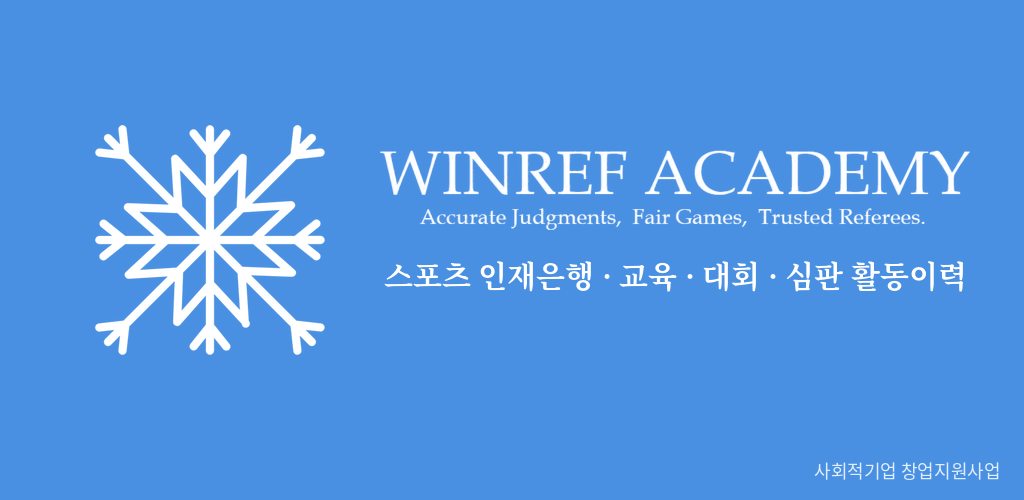
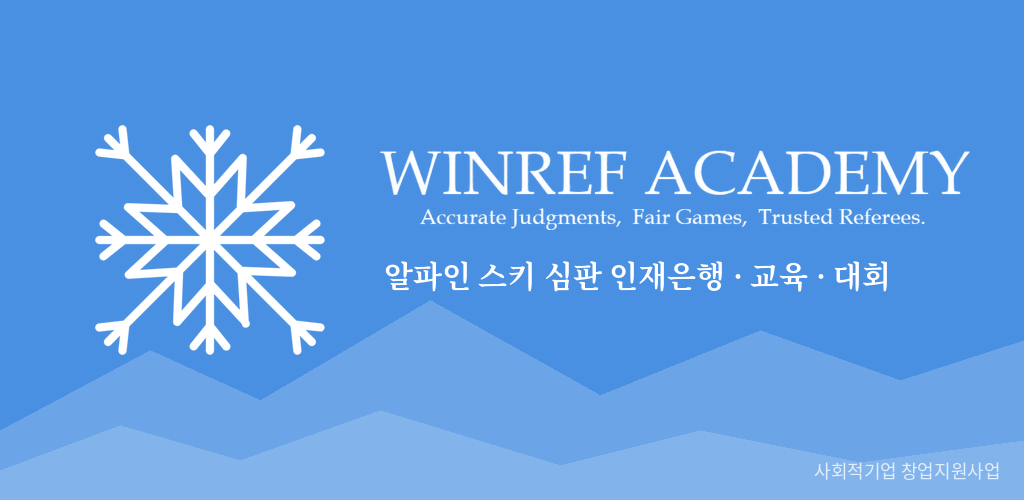
store: 알파인 설산 피처 그래픽
Claude-Session: https://claude.ai/code/session_01LoRTHzmmYn6LtxUNU6apzA

Changed region(s): [[0.0, 0.51, 1.0, 1.0]]

diff --git a/tools/make_icons.py b/tools/make_icons.py
@@ -80,13 +80,21 @@ def main():
     store.mkdir(exist_ok=True)
     icon(mask, 512, 0.0).convert("RGB").save(store / "icon-512.png")
     fg = Image.new("RGB", (1024, 500), BLUE)
+    # 설산 능선 (알파인 스키)
+    ridge = Image.new("RGBA", (1024, 500), (0, 0, 0, 0))
+    rd = ImageDraw.Draw(ridge)
+    rd.polygon([(0, 430), (150, 350), (260, 400), (430, 300), (600, 395), (760, 330), (900, 380), (1024, 340), (1024, 500), (0, 500)],
+               fill=(255, 255, 255, 46))
+    rd.polygon([(0, 470), (120, 425), (240, 460), (380, 410), (560, 465), (700, 430), (860, 462), (1024, 440), (1024, 500), (0, 500)],
+               fill=(255, 255, 255, 80))
+    fg.paste(ridge, (0, 0), ridge)
     flake = colored(mask, WHITE, 230)
     fg.paste(flake, (95, (500 - flake.height) // 2 - 10), flake)
     wm = wordmark.copy()
     wm.thumbnail((590, 200), Image.LANCZOS)
     fg.paste(wm, (380, 150), wm)
     d = ImageDraw.Draw(fg)
-    d.text((384, 150 + wm.height + 22), "스포츠 인재은행 · 교육 · 대회 · 심판 활동이력", font=ImageFont.truetype(KR, 30), fill=WHITE)
+    d.text((384, 150 + wm.height + 22), "알파인 스키 심판 인재은행 · 교육 · 대회", font=ImageFont.truetype(KR, 30), fill=WHITE)
     d.text((1024 - 24, 500 - 22), "사회적기업 창업지원사업", font=ImageFont.truetype(KR_REG, 18),
            fill=(225, 238, 252), anchor="rs")
     fg.save(store / "feature-graphic-1024x500.png")
